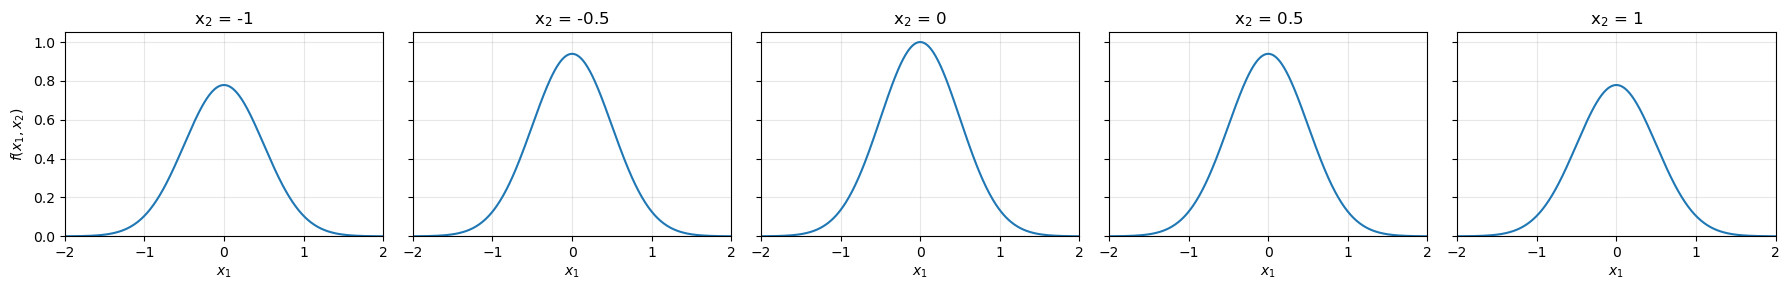
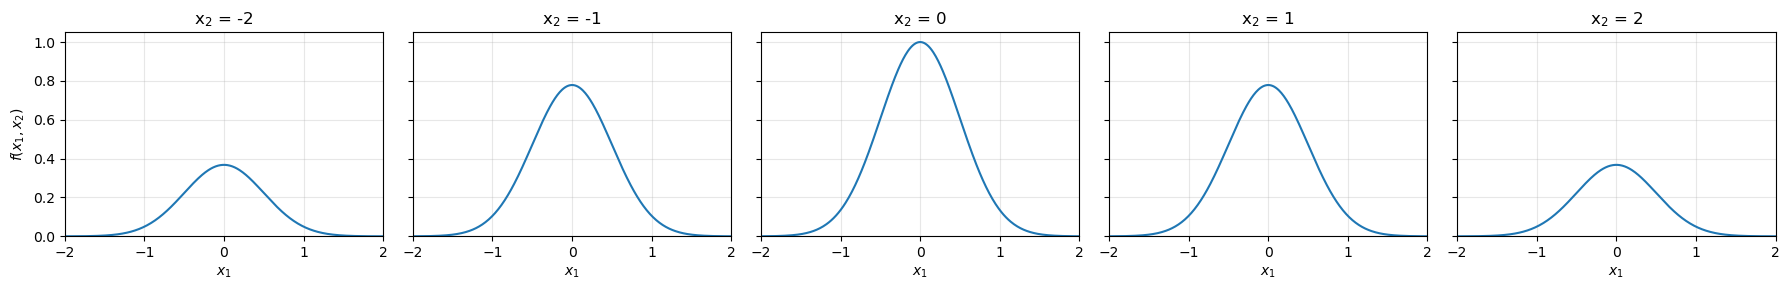
Built site for gh-pages

diff --git a/modules/module3/module3-ex3_3.html b/modules/module3/module3-ex3_3.html
@@ -355,7 +355,7 @@ f([x_1,x_2]^T) = e^{-(4x_1^2 + \frac12 x_2^2)}.
 </div>
 </div>
 <ol start="4" type="a">
-<li>For each choice of <span class="math inline">\(x_2 = -1, -0.5, 0, 0.5, 1\)</span>, simplify <span class="math inline">\(f\)</span> into a function of the single variable <span class="math inline">\(x_1\)</span>. Then, plot each of the resulting functions using your favourite graphing software. What do you notice about the graphs?</li>
+<li>For each choice of <span class="math inline">\(x_2 = -2, -1, 0, 1, 2\)</span>, simplify <span class="math inline">\(f\)</span> into a function of the single variable <span class="math inline">\(x_1\)</span>. Then, plot each of the resulting functions using your favourite graphing software. What do you notice about the graphs?</li>
 <li>Draw a graph of the overall function <span class="math inline">\(f\)</span> as a function of 2 variables.</li>
 </ol>
 <div class="callout callout-style-default callout-note no-icon callout-titled">
@@ -385,7 +385,8 @@ Figure&nbsp;2: A sequence of slices.
 </div>
 </center>
 <p><br><br></p>
-<p>The graph of <span class="math inline">\(f\)</span> looks like a “hill” with a peak at the origin, and smooth exponential decay in all directions. The decay is faster in the <span class="math inline">\(x_1\)</span> direction (corresponding to the larger value <span class="math inline">\(4\)</span> in <span class="math inline">\(A\)</span>) than in the <span class="math inline">\(x_2\)</span> direction (which corresponds to the smaller value <span class="math inline">\(1/2\)</span>). In other words, the hill is narrow in the <span class="math inline">\(x_1\)</span> direction and wide in the <span class="math inline">\(x_2\)</span> direction.</p>
+<p>We could repeat this process fixing instead <span class="math inline">\(x_1 = -2, -1, 0, 1, 2\)</span> in turn, and plotting the resulting function of <span class="math inline">\(x_2\)</span>. This results in a similar picture, except the graph changes more dramatically across different values of <span class="math inline">\(x_1\)</span>.</p>
+<p>The graph of <span class="math inline">\(f\)</span>, as a function of 2 variables, looks like a “hill” with a peak at the origin; from this peak the graph shows smooth exponential decay in all directions. The decay is faster in the <span class="math inline">\(x_1\)</span> direction (corresponding to the larger value <span class="math inline">\(4\)</span> in <span class="math inline">\(A\)</span>) than in the <span class="math inline">\(x_2\)</span> direction (which corresponds to the smaller value <span class="math inline">\(1/2\)</span>). In other words, the hill is narrow in the <span class="math inline">\(x_1\)</span> direction and wide in the <span class="math inline">\(x_2\)</span> direction.</p>
 <br><br>
 <center>
 <div id="fig-A" class="quarto-float quarto-figure quarto-figure-center anchored">
